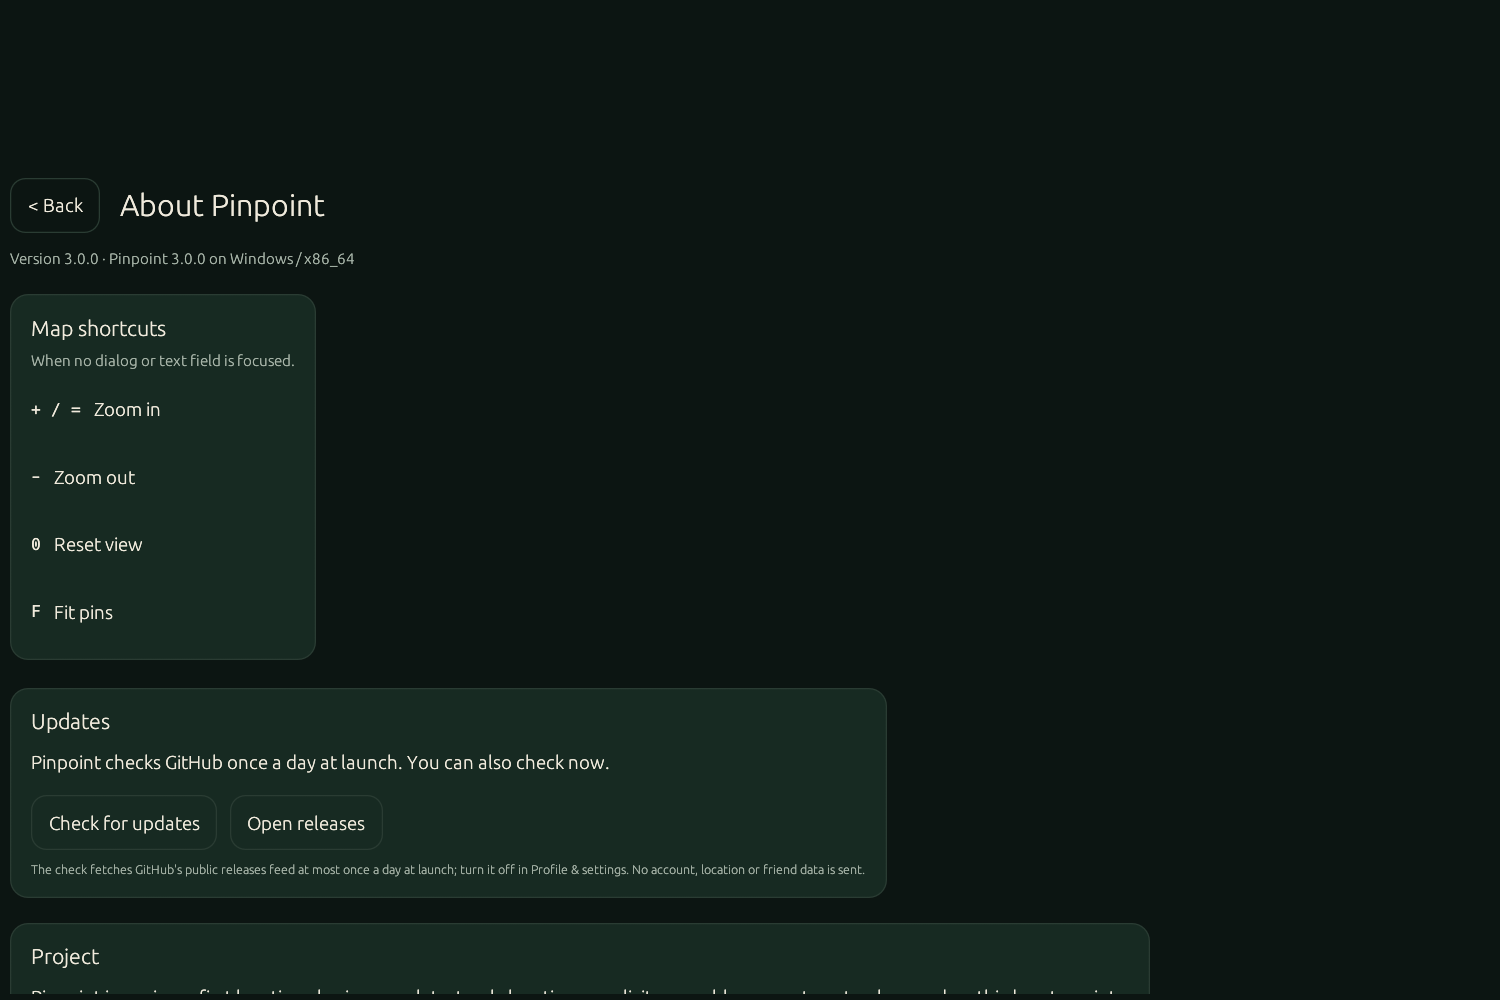
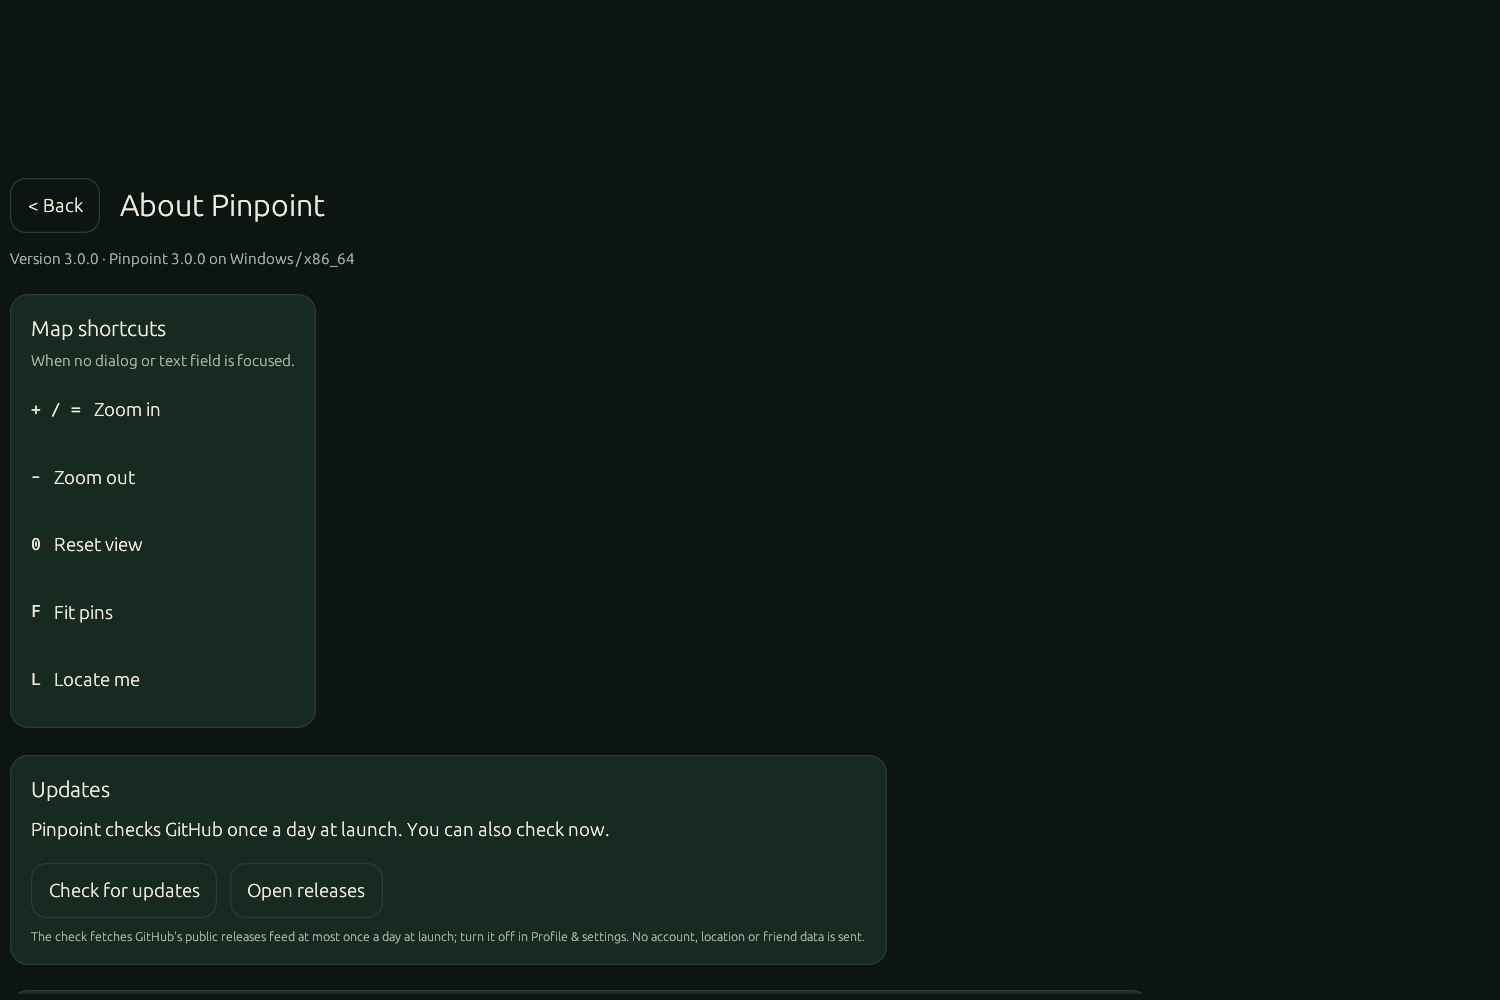
[FEATURE] native: add the map Locate shortcut

diff --git a/src/ui/map.rs b/src/ui/map.rs
@@ -88,6 +88,7 @@ impl PinpointAppUI {
                     egui::Key::Minus,
                     egui::Key::Num0,
                     egui::Key::F,
+                    egui::Key::L,
                 ] {
                     if !input.key_pressed(key) {
                         continue;
@@ -97,6 +98,7 @@ impl PinpointAppUI {
                         Some(MapKeyAction::ZoomOut) => zoom_delta -= 1,
                         Some(MapKeyAction::ResetView) => reset = true,
                         Some(MapKeyAction::FitPins) => fit_pins = true,
+                        Some(MapKeyAction::Locate) => locate = true,
                         None => {}
                     }
                 }
@@ -119,7 +121,7 @@ impl PinpointAppUI {
                             self.toggle_webview_map();
                         }
                     }
-                    if ui.button("Locate").clicked() {
+                    if ui.button("Locate").on_hover_text("Locate me (L)").clicked() {
                         locate = true;
                     }
                     if ui
@@ -658,6 +660,7 @@ enum MapKeyAction {
     ZoomOut,
     ResetView,
     FitPins,
+    Locate,
 }
 
 struct MapShortcut {
@@ -667,7 +670,7 @@ struct MapShortcut {
     action_label: &'static str,
 }
 
-const MAP_SHORTCUTS: [MapShortcut; 4] = [
+const MAP_SHORTCUTS: [MapShortcut; 5] = [
     MapShortcut {
         keys: &[egui::Key::Plus, egui::Key::Equals],
         key_label: "+ / =",
@@ -691,6 +694,12 @@ const MAP_SHORTCUTS: [MapShortcut; 4] = [
         key_label: "F",
         action: MapKeyAction::FitPins,
         action_label: "Fit pins",
+    },
+    MapShortcut {
+        keys: &[egui::Key::L],
+        key_label: "L",
+        action: MapKeyAction::Locate,
+        action_label: "Locate me",
     },
 ];
 
@@ -1348,6 +1357,7 @@ mod tests {
             Some(MapKeyAction::ResetView)
         );
         assert_eq!(map_key_action(egui::Key::F), Some(MapKeyAction::FitPins));
+        assert_eq!(map_key_action(egui::Key::L), Some(MapKeyAction::Locate));
         assert_eq!(map_key_action(egui::Key::A), None);
     }
 
@@ -1360,6 +1370,7 @@ mod tests {
                 ("-", "Zoom out"),
                 ("0", "Reset view"),
                 ("F", "Fit pins"),
+                ("L", "Locate me"),
             ]
         );
         for shortcut in MAP_SHORTCUTS.iter() {

diff --git a/CHANGELOG.md b/CHANGELOG.md
@@ -12,7 +12,7 @@ The per-item flagged list for this release is in
 
 ## [Unreleased]
 ### Added
-- [FEATURE] Native map: `+`/`=`/`-` zoom, `0` resets the view and `F` fits pins when no dialog or text field owns the keyboard; the map buttons show the shortcuts on hover.
+- [FEATURE] Native map: `+`/`=`/`-` zoom, `0` resets the view, `F` fits pins and `L` locates when no dialog or text field owns the keyboard; the map buttons show the shortcuts on hover.
 - [FEATURE] Web: clicking the visible map closes the open drawer; the outside-click predicate is a tested module served at `/drawer-dismiss.js`.
 - [INFRA] Release: the macOS job now builds, checks and packages `pinpoint-server-macos-$VERSION.zip` (`/health`, `/privacy`, `/`), and the release job validates and attaches it next to the desktop app bundle. v3.0.0 now carries the 5,432,742 B macOS server asset.
 - [FEATURE] Web map layers: the layers panel offers Streets, Satellite (EOX Sentinel-2 cloudless 2016, CC BY 4.0, as a hybrid under roads and labels) and Offline map types, plus 3D buildings and Terrain (hill shading and raised relief from Terrain Tiles on AWS), with the camera tilting for 3D. All are opt-in and stored per device; the CSP admits exactly the two new tile hosts, the attribution shows their credits, and the privacy page now lists every optional map provider (ADR-0026).

diff --git a/docs/evidence/README.md b/docs/evidence/README.md
@@ -113,7 +113,7 @@ from the debug desktop binary; they show the three responsive placements.
 ## Native About evidence
 
 - [Map shortcuts card](../assets/native-about-shortcuts.png) — desktop About
-  lists `+ / =`, `-`, `0` and `F`; captured with
+  lists `+ / =`, `-`, `0`, `F` and `L`; captured with
   `PINPOINT_SCREENSHOT_SCREEN=about` (About is reached from Profile).
 
 ## Web drawer layout
